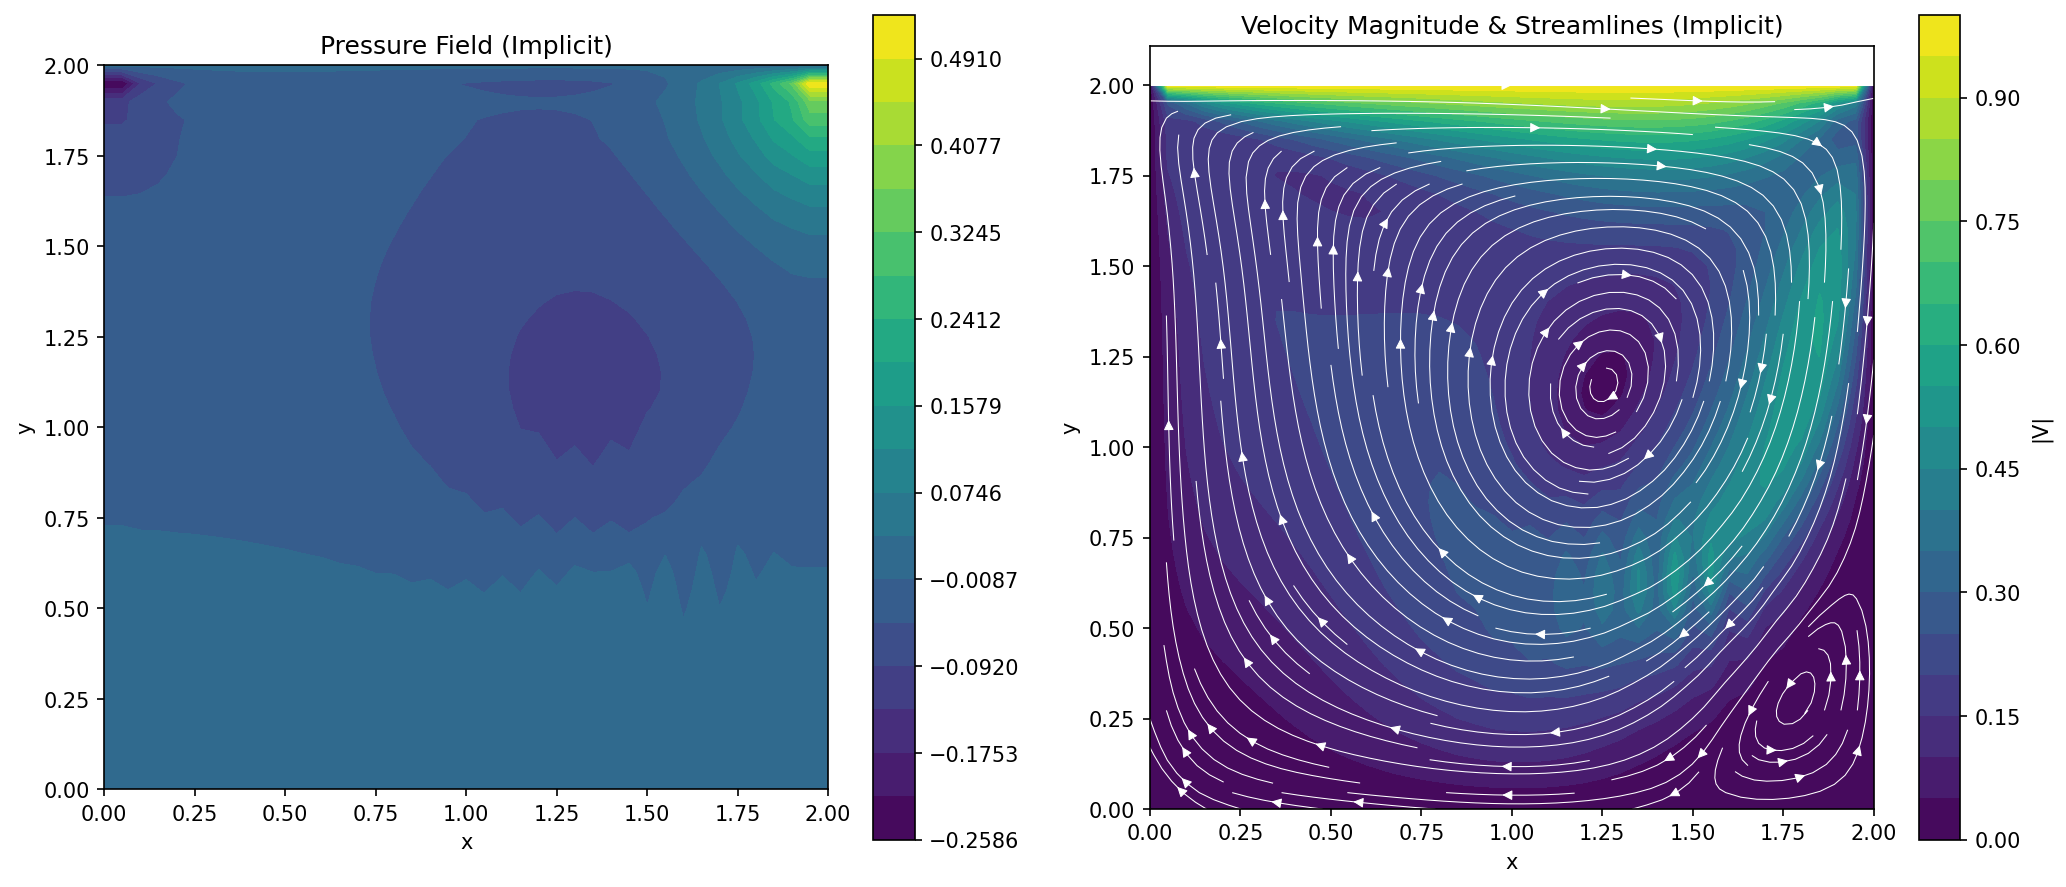
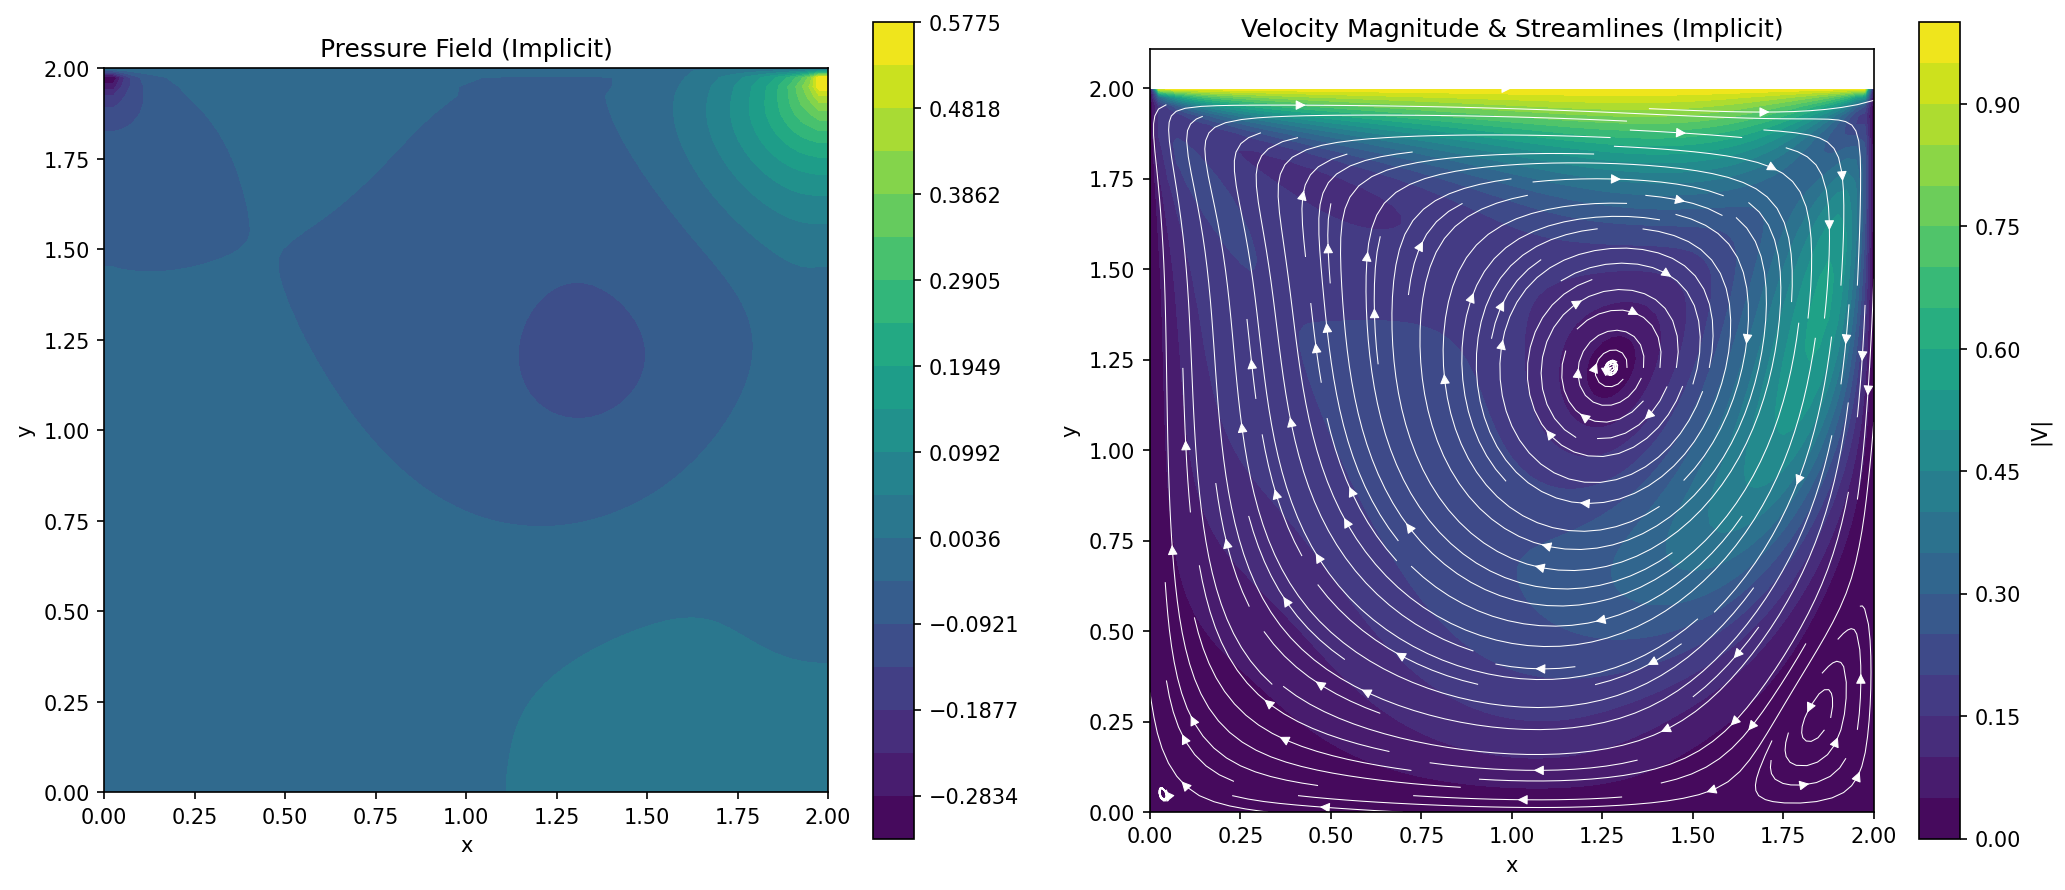
Add NaN detection and crash handling for implicit solver
Safety and robustness improvements:
- Added NaN detection after each timestep with early termination
- Clear crash messages showing step and time of failure
- Fixed CFL history save to handle early termination
- Skip plot generation if solution contains NaN values

Testing results (81×81 grid):
- Re=100 (dt=0.01): ✓ Stable, completes 1000 steps successfully
- Re=500 (dt=0.008): Crashes at step 279 (advection instability)
- Re=400 (dt=0.01): Crashes at step 290

Updated plots from Re=100 stable run.

Note: The implicit scheme removes diffusion stability constraint but
advection is still explicit. High Re requires smaller timesteps or
implicit advection treatment.

diff --git a/simulations/cavity_flow_implicit/cavity_flow_implicit.py b/simulations/cavity_flow_implicit/cavity_flow_implicit.py
@@ -96,6 +96,19 @@ def cavity_flow_implicit(nt, u, v, p, dt, dx, dy, rho, nu, verbose=False, nit_pr
         
         cfl_history.append(cfl)
         
+        # Check for NaN values (simulation crashed)
+        if np.isnan(u_max) or np.isnan(v_max) or np.isnan(cfl):
+            current_time = n * dt
+            if verbose:
+                print(f"\n{'='*80}")
+                print(f"SIMULATION CRASHED at step {n} (t={current_time:.4f})")
+                print(f"NaN detected in velocity or CFL")
+                print(f"{'='*80}\n")
+            else:
+                print(f"\nSimulation crashed at step {n} (t={current_time:.4f}) - NaN detected")
+            # Return current state before crash
+            return u, v, p, cfl_history, monitoring_data if verbose else None
+        
         # Verbose monitoring
         if verbose and (n % 50 == 0 or n == nt - 1):
             current_time = n * dt
@@ -237,8 +250,9 @@ def main():
              u=u, v=v, p=p, nx=nx, ny=ny, L=L, Re=args.re, dt=dt, nt=nt)
     
     # Save CFL history
+    actual_steps = len(cfl_history)
     np.savetxt(os.path.join(output_dir, 'cfl_implicit.csv'),
-               np.column_stack([np.arange(nt), cfl_history]),
+               np.column_stack([np.arange(actual_steps), cfl_history]),
                delimiter=',', header='step,cfl', comments='')
     
     # Save monitoring data if verbose
@@ -254,10 +268,13 @@ def main():
         print(f"Solution saved to {os.path.join(output_dir, 'solution_implicit.npz')}")
         print(f"CFL history saved to {os.path.join(output_dir, 'cfl_implicit.csv')}")
         
-        # Generate plot
-        print("Generating plot...")
-        plot_results(u, v, p, nx, ny, L,
-                    output_file=os.path.join(plots_dir, 'cavity_flow_implicit_result.png'))
+        # Generate plot only if solution is valid (no NaN)
+        if not (np.isnan(u).any() or np.isnan(v).any() or np.isnan(p).any()):
+            print("Generating plot...")
+            plot_results(u, v, p, nx, ny, L,
+                        output_file=os.path.join(plots_dir, 'cavity_flow_implicit_result.png'))
+        else:
+            print("Skipping plot generation (solution contains NaN values)")
     
     if args.benchmark:
         # Print only timing for benchmarking
